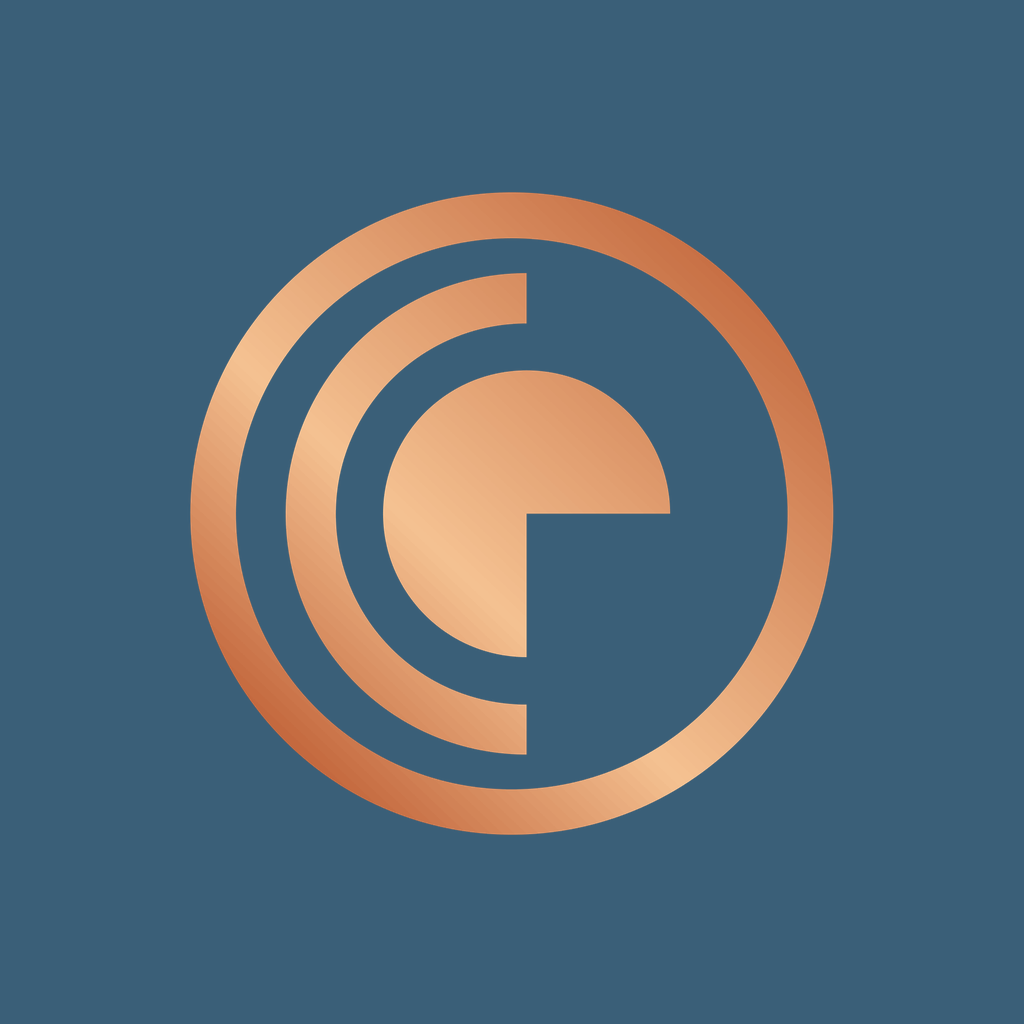
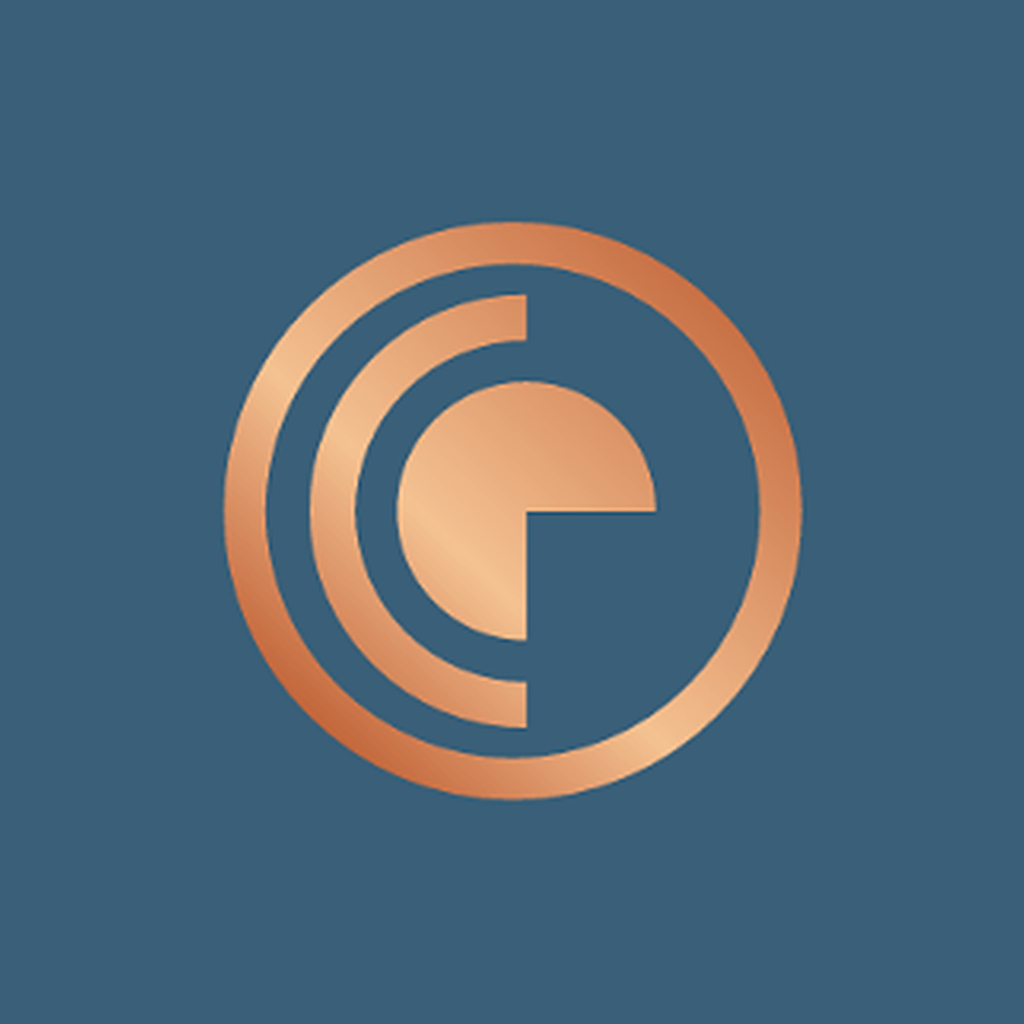
Mağaza hazırlığı: resmi logodan uygulama simgeleri, siteye yükleme betiği, mağaza metinleri
- assets/images: app-icon/resmi-logo setiyle değiştirildi (logo yalnızca ölçeklendi)
- scripts/uygulama/Siteye-Yukle: app-api.php ve gizlilik sayfasını FTP(S) ile yükler, sonra kontrol eder
- magaza/magaza-bilgileri.md: TR/EN mağaza adı, açıklama, anahtar kelime, gizlilik yanıtları
- .gitignore: yerel android/ios klasörleri EAS'e gitmesin (app.json ayarları geçerli olsun)
- src/css.d.ts: TypeScript 6 tip kontrolü global.css içe aktarmasında hata vermesin

Claude-Session: https://claude.ai/code/session_011JW28VkdMjRDYyUgifmGmi

Changed region(s): [[0.1875, 0.1875, 0.8125, 0.8125], [0.5, 0.5, 0.5312, 0.5312]]

diff --git a/apps/mobile/src/css.d.ts b/apps/mobile/src/css.d.ts
@@ -1,0 +1,2 @@
+// Stil dosyası içe aktarmaları (web için global.css) tip kontrolünde tanınsın.
+declare module '*.css';

diff --git a/apps/mobile/magaza/magaza-bilgileri.md b/apps/mobile/magaza/magaza-bilgileri.md
@@ -1,0 +1,66 @@
+# Mağaza bilgileri (App Store + Google Play)
+
+Mağaza formlarına kopyalanacak metinler. Uzunluk sınırları parantez içinde.
+
+## Ortak
+
+| Alan | Değer |
+| --- | --- |
+| Uygulama adı (30) | Lux Locations |
+| Paket / Bundle ID | `com.luxlocations.app` |
+| Kategori | Seyahat (Travel) |
+| Yaş sınırı | 4+ / Herkes (şiddet, kumar, kullanıcı içeriği yok) |
+| Fiyat | Ücretsiz, uygulama içi satın alma yok, reklam yok |
+| Destek / pazarlama adresi | https://luxlocationstours.com |
+| Gizlilik politikası | https://luxlocationstours.com/gizlilik/ |
+| İletişim e-postası | info@luxlocationstours.com |
+| Telefon | +90 539 611 41 90 |
+| Veri toplama (App Privacy / Data safety) | Veri toplanmıyor, izleme yok. Form, kullanıcının kendi WhatsApp'ından mesaj olarak gider. |
+| Şifreleme | Yalnızca standart HTTPS (muaf) |
+| Giriş gerekli mi? | Hayır (inceleme için demo hesap gerekmez) |
+
+## Türkçe
+
+**Alt başlık, iOS (30):** Özel turlar, oteller, Boğaz turu
+
+**Kısa açıklama, Google Play (80):** İstanbul merkezli özel turlar, seçkin oteller ve Boğaz yemekli tekne turu.
+
+**Açıklama (4000):**
+
+Lux Locations ile Türkiye yolculuğunuzu baştan sona size özel planlayın.
+
+• Seçkin oteller: otellerimizi fotoğrafları, odaları ve olanaklarıyla inceleyin, tek dokunuşla teklif isteyin.
+• Boğaz yemekli tekne turu: Türk gecesi eşliğinde Boğaz'da akşam yemeği.
+• Oda, grup ve toplantı-kongre rezervasyonu: tarihlerinizi ve tercihlerinizi yazın, talebiniz WhatsApp ile doğrudan ekibimize ulaşsın.
+• Özel turlar, VIP transfer, rehberlik, araç kiralama ve organizasyon.
+• 11 dil: Türkçe, English, العربية, Русский, Deutsch, Français, Español, Italiano, 中文, فارسی, Română.
+• İçerik sitemizle aynı anda güncellenir; internet yokken son indirilen içerik görünür.
+
+Hesap açmanız gerekmez, kişisel verinizi toplamayız.
+
+**Anahtar kelimeler, iOS (100):** istanbul,tur,otel,boğaz,tekne,transfer,kapadokya,rezervasyon,seyahat,vip,rehber,türkiye
+
+## English
+
+**Subtitle, iOS (30):** Private tours, hotels, Bosphorus
+
+**Short description, Google Play (80):** Private tours, hand-picked hotels and Bosphorus dinner cruise from Istanbul.
+
+**Description (4000):**
+
+Plan your trip to Türkiye your way with Lux Locations.
+
+• Hand-picked hotels: browse our hotels with photos, rooms and amenities, and ask for a quote in one tap.
+• Bosphorus dinner cruise with a Turkish night show.
+• Room, group and meeting & congress bookings: enter your dates and preferences and your request reaches our team directly on WhatsApp.
+• Private tours, VIP transfers, guiding, car rental and events.
+• 11 languages: Türkçe, English, العربية, Русский, Deutsch, Français, Español, Italiano, 中文, فارسی, Română.
+• Content updates together with our website; the last downloaded content stays available offline.
+
+No account needed, and we do not collect your personal data.
+
+**Keywords, iOS (100):** istanbul,tour,hotel,bosphorus,cruise,transfer,cappadocia,booking,travel,vip,guide,turkey
+
+## Ekran görüntüleri
+
+Site API'si yayına girince deneme sürümünden çekilecek (iPhone 6.9" 1320×2868, Android telefon 1080×1920) ve `magaza/ekran/` klasörüne konacak.

diff --git a/apps/mobile/README.md b/apps/mobile/README.md
@@ -32,7 +32,9 @@ Canlı veri adresi: `https://luxlocationstours.com/lx-content/app-api.php?lang=t
 - `apps/web/public/lx-content/app-api.php` → sunucuda `httpdocs/lx-content/app-api.php`
 - `apps/web/public/gizlilik/index.html` → sunucuda `httpdocs/gizlilik/index.html` (mağazaların istediği gizlilik politikası: `https://luxlocationstours.com/gizlilik/`)
 
-Başka dosyaya dokunulmaz.
+Başka dosyaya dokunulmaz. Yükleme betiği: `scripts/uygulama/Siteye-Yukle.bat` (iki dosyayı yanına aynı klasör yapısıyla koyup çalıştırın, FTP şifresini sorar).
+
+Mağaza formlarına girilecek metinler: `magaza/magaza-bilgileri.md`.
 
 ## Deneme
 
